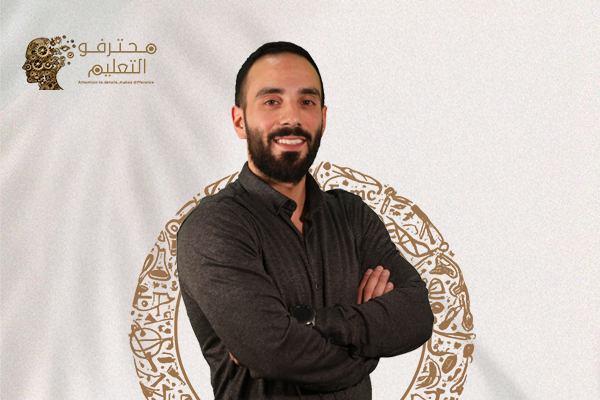
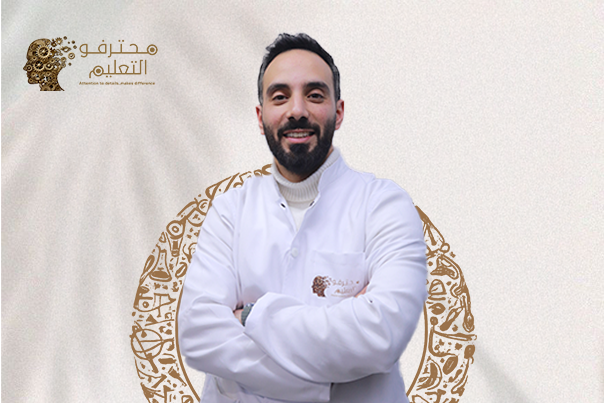
تحديثات المنصة

diff --git a/templates/dashboard/admin_subject_edit.html b/templates/dashboard/admin_subject_edit.html
@@ -1,0 +1,194 @@
+{% extends "dashboard/base.html" %}
+{% load static %}
+
+{% block title %}تعديل مادة | محترفو التعليم{% endblock %}
+
+{% block content %}
+<div class="admin-subject-edit reveal-up">
+    <header class="edit-hero">
+        <div class="hero-profile">
+            <div class="hero-avatar">
+                <i data-lucide="book-open"></i>
+            </div>
+            <div>
+                <div class="badge badge-gold mb-2">تعديل المادة الدراسية</div>
+                <h1>{{ subject.name }}</h1>
+                <p>الرابط المختصر: {{ subject.slug }} · مضاف بتاريخ: {{ subject.created_at|date:"Y-m-d" }}</p>
+            </div>
+        </div>
+        <div class="hero-actions">
+            <a href="{% url 'dashboard:admin_subjects' %}" class="btn btn-secondary">
+                <i data-lucide="arrow-right"></i>
+                رجوع لقائمة المواد
+            </a>
+        </div>
+    </header>
+
+    <section class="edit-stats">
+        <div class="stat-tile"><span>الدورات التدريبية</span><strong>{{ courses.count }}</strong></div>
+        <div class="stat-tile"><span>إجمالي الوحدات</span><strong>{{ subject.units_count|default:0 }}</strong></div>
+        <div class="stat-tile"><span>إجمالي الدروس</span><strong>{{ subject.lessons_count|default:0 }}</strong></div>
+    </section>
+
+    <div class="edit-layout">
+        <section class="premium-card edit-form-card">
+            <div class="section-title">
+                <i data-lucide="settings-2"></i>
+                <h2>تفاصيل وبيانات المادة</h2>
+            </div>
+            <form method="post" class="subject-edit-form">
+                {% csrf_token %}
+                {% if form.non_field_errors %}
+                    <div class="form-errors mb-4">{{ form.non_field_errors }}</div>
+                {% endif %}
+                <div class="form-grid">
+                    {% for field in form %}
+                        <div class="form-field {% if field.name == 'description' %}wide{% endif %}">
+                            <label for="{{ field.id_for_label }}">{{ field.label }}</label>
+                            {{ field }}
+                            {% if field.help_text %}<small class="text-muted">{{ field.help_text }}</small>{% endif %}
+                            {% for error in field.errors %}<small class="field-error">{{ error }}</small>{% endfor %}
+                        </div>
+                    {% endfor %}
+                </div>
+                <div class="form-actions mt-8">
+                    <button type="submit" class="btn btn-primary btn-glow">
+                        <i data-lucide="save"></i>
+                        حفظ وتحديث التغييرات
+                    </button>
+                </div>
+            </form>
+        </section>
+
+        <aside class="premium-card courses-side">
+            <div class="section-title">
+                <i data-lucide="layers"></i>
+                <h2>الدورات المرتبطة بالمادة</h2>
+            </div>
+            <div class="subject-courses-list">
+                {% for course in courses %}
+                    <a class="subject-course-row" href="{% url 'dashboard:admin_course_control' course.id %}">
+                        <span>
+                            <strong>{{ course.title }}</strong>
+                            <small>الأستاذ: {{ course.instructor.get_full_name|default:course.instructor.username }} · {{ course.get_status_display }}</small>
+                        </span>
+                        <i data-lucide="chevron-left"></i>
+                    </a>
+                {% empty %}
+                    <div class="empty-side">
+                        <i data-lucide="book-plus"></i>
+                        <p>لا توجد دورات تابعة لهذه المادة حتى الآن.</p>
+                        <a href="{% url 'dashboard:admin_course_create' %}" class="btn btn-secondary btn-sm mt-2">إنشاء دورة جديدة</a>
+                    </div>
+                {% endfor %}
+            </div>
+        </aside>
+    </div>
+</div>
+
+<style>
+    .admin-subject-edit { padding-bottom: 3rem; }
+    .edit-hero {
+        display: flex;
+        align-items: center;
+        justify-content: space-between;
+        gap: 1.5rem;
+        padding: 2rem;
+        border: 1px solid var(--border-light);
+        border-radius: 24px;
+        background: linear-gradient(135deg, rgba(var(--brand-gold-rgb), .14), transparent 45%), var(--bg-surface);
+        margin-bottom: 1.2rem;
+    }
+    .hero-profile { display: flex; align-items: center; gap: 1.5rem; min-width: 0; }
+    .hero-avatar {
+        width: 80px;
+        height: 80px;
+        display: grid;
+        place-items: center;
+        flex: 0 0 auto;
+        border-radius: 20px;
+        border: 1px solid var(--brand-gold-glow);
+        background: rgba(var(--brand-gold-rgb), .12);
+        color: var(--brand-gold);
+        font-size: 2rem;
+    }
+    .edit-hero h1 { margin: 0 0 .35rem; font-size: clamp(1.7rem, 3.2vw, 2.6rem); overflow-wrap: anywhere; }
+    .edit-hero p { margin: 0; color: var(--text-muted); font-weight: 800; font-size: 0.9rem; }
+    .hero-actions { display: flex; gap: .75rem; flex-wrap: wrap; justify-content: flex-end; }
+    
+    .edit-stats { display: grid; grid-template-columns: repeat(3, minmax(0, 1fr)); gap: 1rem; margin-bottom: 1.2rem; }
+    .stat-tile { padding: 1rem 1.25rem; border: 1px solid var(--border-light); border-radius: 16px; background: var(--bg-surface); }
+    .stat-tile span { display: block; color: var(--text-muted); font-size: .78rem; font-weight: 900; margin-bottom: 0.25rem; }
+    .stat-tile strong { color: var(--brand-gold); font-size: 1.8rem; line-height: 1.3; font-weight: 900; }
+    
+    .edit-layout { display: grid; grid-template-columns: minmax(0, 1fr) 380px; gap: 1.2rem; align-items: start; }
+    .edit-form-card, .courses-side { padding: 1.5rem 2rem !important; }
+    .section-title { display: flex; align-items: center; gap: .6rem; margin-bottom: 1.5rem; border-bottom: 1px solid var(--border-light); padding-bottom: 0.75rem; }
+    .section-title i { color: var(--brand-gold); }
+    .section-title h2 { margin: 0; font-size: 1.25rem; font-weight: 800; }
+    
+    .subject-edit-form input,
+    .subject-edit-form select,
+    .subject-edit-form textarea {
+        width: 100%;
+        min-height: 46px;
+        padding: .85rem 1rem;
+        border: 1px solid var(--border-strong);
+        border-radius: 12px;
+        background: var(--bg-base);
+        color: var(--text-primary);
+        font-family: inherit;
+        transition: border-color 0.2s;
+    }
+    .subject-edit-form input:focus,
+    .subject-edit-form select:focus,
+    .subject-edit-form textarea:focus {
+        border-color: var(--brand-gold);
+        outline: none;
+    }
+    .subject-edit-form textarea { resize: vertical; min-height: 140px; line-height: 1.8; }
+    .form-grid { display: grid; grid-template-columns: repeat(2, minmax(0, 1fr)); gap: 1.5rem; }
+    .form-field { display: grid; gap: .5rem; }
+    .form-field.wide { grid-column: 1 / -1; }
+    .form-field label { color: var(--text-secondary); font-size: .85rem; font-weight: 800; }
+    .field-error, .form-errors { color: var(--danger); font-weight: 800; font-size: .8rem; }
+    .form-actions { display: flex; justify-content: flex-end; }
+    
+    .subject-courses-list { display: grid; gap: .75rem; }
+    .subject-course-row {
+        display: flex;
+        align-items: center;
+        justify-content: space-between;
+        gap: .75rem;
+        padding: 1rem;
+        border: 1px solid var(--border-light);
+        border-radius: 14px;
+        background: var(--bg-surface-elevated);
+        color: var(--text-primary);
+        text-decoration: none;
+        transition: transform .18s ease, border-color .18s ease;
+    }
+    .subject-course-row:hover { transform: translateY(-2px); border-color: var(--brand-gold-glow); }
+    .subject-course-row span { min-width: 0; }
+    .subject-course-row strong { display: block; font-size: 0.95rem; font-weight: 700; overflow-wrap: anywhere; }
+    .subject-course-row small { display: block; margin-top: .25rem; color: var(--text-muted); font-size: 0.8rem; }
+    .subject-course-row i { color: var(--brand-gold); flex: 0 0 auto; }
+    
+    .empty-side { text-align: center; padding: 2rem 1rem; color: var(--text-muted); }
+    .empty-side i { width: 42px; height: 42px; color: var(--brand-gold); }
+    
+    @media (max-width: 980px) {
+        .edit-layout { grid-template-columns: 1fr; }
+        .edit-hero { align-items: flex-start; flex-direction: column; }
+        .hero-actions { width: 100%; }
+        .hero-actions .btn { flex: 1; justify-content: center; }
+    }
+    @media (max-width: 640px) {
+        .edit-hero { padding: 1.25rem; }
+        .hero-profile { align-items: flex-start; gap: 1rem; }
+        .hero-avatar { width: 64px; height: 64px; border-radius: 16px; font-size: 1.5rem; }
+        .edit-stats, .form-grid { grid-template-columns: 1fr; }
+        .form-actions .btn { width: 100%; justify-content: center; }
+    }
+</style>
+{% endblock %}

diff --git a/templates/dashboard/admin_students.html b/templates/dashboard/admin_students.html
@@ -91,9 +91,35 @@
         </div>
     </form>
 </div>
+<!-- Governorate Distribution Report -->
+<div class="premium-card mb-8 animate-fade-up" style="animation-delay: 0.15s;">
+    <div class="flex-between mb-6">
+        <div>
+            <span class="badge mb-2">التقارير الديموغرافية</span>
+            <h2 class="section-title" style="margin: 0;"><i data-lucide="map" style="color: var(--brand-gold);"></i> توزيع الطلاب حسب المحافظات</h2>
+        </div>
+        <div class="badge gold">{{ gov_stats|length }} محافظات نشطة</div>
+    </div>
+    
+    <div class="gov-distribution-grid">
+        {% for gov in gov_stats %}
+            <div class="gov-stat-item">
+                <div class="flex-between mb-2">
+                    <strong class="gov-name" style="font-size: 0.95rem; color: var(--text-primary);">{{ gov.name }}</strong>
+                    <span class="badge" style="background: rgba(var(--brand-gold-rgb), 0.1); color: var(--brand-gold); font-weight: 800; font-size: 0.8rem;">{{ gov.count }} طالب</span>
+                </div>
+                <div class="gov-progress-bar">
+                    {% widthratio gov.count stats.total 100 as percentage %}
+                    <div class="gov-progress-fill" style="width: {{ percentage|default:0 }}%;"></div>
+                </div>
+                <span class="gov-percentage" style="font-size: 0.75rem; color: var(--text-muted); display: block; margin-top: 0.25rem; text-align: left;">{{ percentage|default:0 }}% من الطلاب</span>
+            </div>
+        {% endfor %}
+    </div>
+</div>
 
 <!-- Main Students Table -->
-<div class="animate-fade-up" style="animation-delay: 0.2s;">
+<div class="animate-fade-up" style="animation-delay: 0.25s;">
     <div class="admin-table-wrapper mb-8">
         <table class="admin-table print-table">
             <thead>
@@ -158,6 +184,34 @@
 
 <!-- Print Styles -->
 <style>
+    .gov-distribution-grid {
+        display: grid;
+        grid-template-columns: repeat(auto-fill, minmax(240px, 1fr));
+        gap: 1.5rem;
+    }
+    .gov-stat-item {
+        background: rgba(255, 255, 255, 0.01);
+        border: 1px solid var(--border-light);
+        padding: 1.25rem;
+        border-radius: 16px;
+        transition: 0.3s ease;
+    }
+    .gov-stat-item:hover {
+        border-color: var(--brand-gold-glow);
+        background: rgba(var(--brand-gold-rgb), 0.02);
+    }
+    .gov-progress-bar {
+        background: rgba(255, 255, 255, 0.05);
+        height: 6px;
+        border-radius: 3px;
+        overflow: hidden;
+    }
+    .gov-progress-fill {
+        background: linear-gradient(90deg, var(--brand-gold), #e8c37d);
+        height: 100%;
+        border-radius: 3px;
+    }
+
     @media print {
         body { background: white !important; color: black !important; }
         .print-hidden, .navbar, .admin-sidebar, .mobile-bottom-nav, .ambient-bg { display: none !important; }

diff --git a/templates/dashboard/admin_subjects.html b/templates/dashboard/admin_subjects.html
@@ -44,32 +44,7 @@
         </div>
     </div>
 
-    <!-- Edit Modal -->
-    <div id="edit-modal" class="modal-overlay" style="display: none;">
-        <div class="modal-card animate-scale-up">
-            <div class="modal-header">
-                <h2 class="section-title"><i data-lucide="edit-3"></i> تعديل المادة</h2>
-                <button onclick="closeModals()" class="btn-icon"><i data-lucide="x"></i></button>
-            </div>
-            <form id="edit-form" method="post" class="modal-body">
-                {% csrf_token %}
-                <div class="form-grid">
-                    <div class="form-group">
-                        <label class="form-label">اسم المادة</label>
-                        <input type="text" name="name" id="edit-name" class="form-control" required>
-                    </div>
-                    <div class="form-group">
-                        <label class="form-label">وصف المادة</label>
-                        <textarea name="description" id="edit-description" class="form-control" rows="3"></textarea>
-                    </div>
-                </div>
-                <div class="modal-footer mt-8">
-                    <button type="button" onclick="closeModals()" class="btn btn-glass">إلغاء</button>
-                    <button type="submit" class="btn btn-primary btn-glow">تحديث البيانات</button>
-                </div>
-            </form>
-        </div>
-    </div>
+
 
     <div class="subjects-grid">
         {% for subject in subjects %}
@@ -100,9 +75,9 @@
             </div>
 
             <div class="subject-actions mt-8">
-                <button onclick="openEditModal('{{ subject.id }}', '{{ subject.name|escapejs }}', '{{ subject.description|escapejs }}')" class="btn btn-glass btn-sm w-full">
+                <a href="{% url 'dashboard:admin_subject_edit' subject.id %}" class="btn btn-glass btn-sm w-full">
                     <i data-lucide="edit"></i> تعديل المادة
-                </button>
+                </a>
             </div>
         </div>
         {% empty %}
@@ -118,16 +93,7 @@
         document.getElementById('create-modal').style.display = 'flex';
         document.body.style.overflow = 'hidden';
     }
-    
-    function openEditModal(id, name, description) {
-        const modal = document.getElementById('edit-modal');
-        const form = document.getElementById('edit-form');
-        form.action = `/admin-dashboard/content/subjects/${id}/edit/`;
-        document.getElementById('edit-name').value = name;
-        document.getElementById('edit-description').value = description;
-        modal.style.display = 'flex';
-        document.body.style.overflow = 'hidden';
-    }
+
     
     function closeModals() {
         document.querySelectorAll('.modal-overlay').forEach(m => m.style.display = 'none');

diff --git a/templates/dashboard/admin_student_detail.html b/templates/dashboard/admin_student_detail.html
@@ -143,8 +143,16 @@
     <!-- Sidebar Info -->
     <div class="sidebar-column">
         <div class="premium-card mb-6">
-            <h3 class="sidebar-label">معلومات تقنية</h3>
+            <h3 class="sidebar-label">المعلومات الشخصية والتقنية</h3>
             <div class="info-list">
+                <div class="info-item">
+                    <span>المحافظة:</span>
+                    <strong style="color: var(--brand-gold);">{{ student.student_profile.governorate|default:"غير محددة" }}</strong>
+                </div>
+                <div class="info-item">
+                    <span>الفرع الدراسي:</span>
+                    <strong>{{ student.student_profile.track|default:"غير محدد" }}</strong>
+                </div>
                 <div class="info-item">
                     <span>تاريخ التسجيل:</span>
                     <strong>{{ student.date_joined|date:"Y-m-d" }}</strong>

diff --git a/dashboard/views.py b/dashboard/views.py
@@ -720,6 +720,26 @@ def admin_students(request):
     grants = AccessGrant.objects.select_related("user", "course", "access_code").order_by("-created_at")[:20]
     devices = UserDevice.objects.select_related("user").order_by("-last_seen_at")[:20]
 
+    # Governorate statistics
+    gov_stats = []
+    from accounts.models import StudentProfile
+    profiles_grouped = StudentProfile.objects.values('governorate').annotate(count=Count('id')).order_by('-count')
+    for p in profiles_grouped:
+        gov_name = p['governorate'].strip() if p['governorate'] else ""
+        if not gov_name:
+            gov_name = "غير محدد"
+        # Combine if "غير محدد" appears multiple times due to spaces
+        existing = next((item for item in gov_stats if item['name'] == gov_name), None)
+        if existing:
+            existing['count'] += p['count']
+        else:
+            gov_stats.append({
+                'name': gov_name,
+                'count': p['count']
+            })
+    # Sort again by count descending
+    gov_stats.sort(key=lambda x: x['count'], reverse=True)
+
     return render(
         request,
         "dashboard/admin_students.html",
